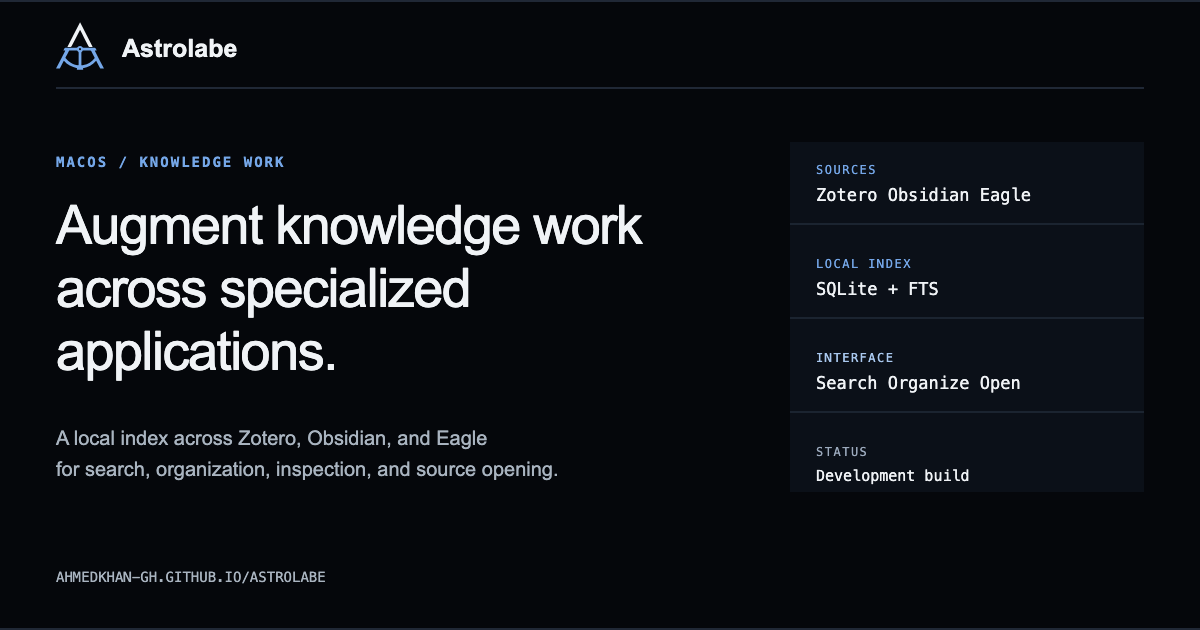
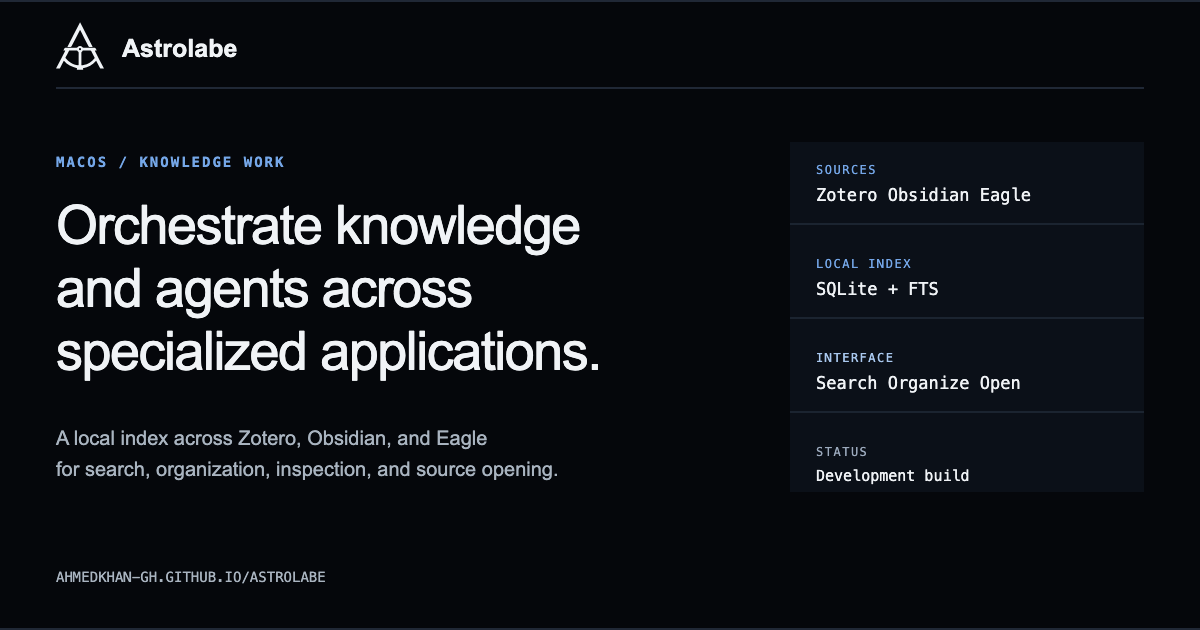
Refine orchestration headline and mark

Changed region(s): [[0.0308, 0.3317, 0.555, 0.6032], [0.0308, 0.0603, 0.0925, 0.1206]]

diff --git a/site/index.html b/site/index.html
@@ -3,7 +3,7 @@
 <head>
   <meta charset="utf-8">
   <meta name="viewport" content="width=device-width, initial-scale=1">
-  <title>Astrolabe — augment knowledge work across applications</title>
+  <title>Astrolabe — orchestrate knowledge and agents across specialized applications</title>
   <meta name="description" content="Astrolabe augments knowledge work across Zotero, Obsidian, and Eagle with a local index for search, organization, inspection, and source opening.">
   <meta name="theme-color" content="#05070b">
   <meta name="color-scheme" content="dark">
@@ -13,7 +13,7 @@
 
   <meta property="og:type" content="website">
   <meta property="og:site_name" content="Astrolabe">
-  <meta property="og:title" content="Astrolabe — augment knowledge work across applications">
+  <meta property="og:title" content="Astrolabe — orchestrate knowledge and agents across specialized applications">
   <meta property="og:description" content="A local index across Zotero, Obsidian, and Eagle for unified search, organization, inspection, and source opening.">
   <meta property="og:url" content="https://ahmedkhan-gh.github.io/astrolabe/">
   <meta property="og:image" content="https://ahmedkhan-gh.github.io/astrolabe/assets/og.png">
@@ -42,7 +42,7 @@
     <section class="home-hero container" id="top">
       <div>
         <p class="section-label">Astrolabe / macOS</p>
-        <h1>Augment knowledge work across specialized applications.</h1>
+        <h1>Orchestrate knowledge and agents across specialized applications.</h1>
       </div>
       <div class="hero-summary">
         <p>Astrolabe indexes Zotero, Obsidian, and Eagle locally, bringing search, organization, inspection, and source opening into one desktop workspace.</p>
